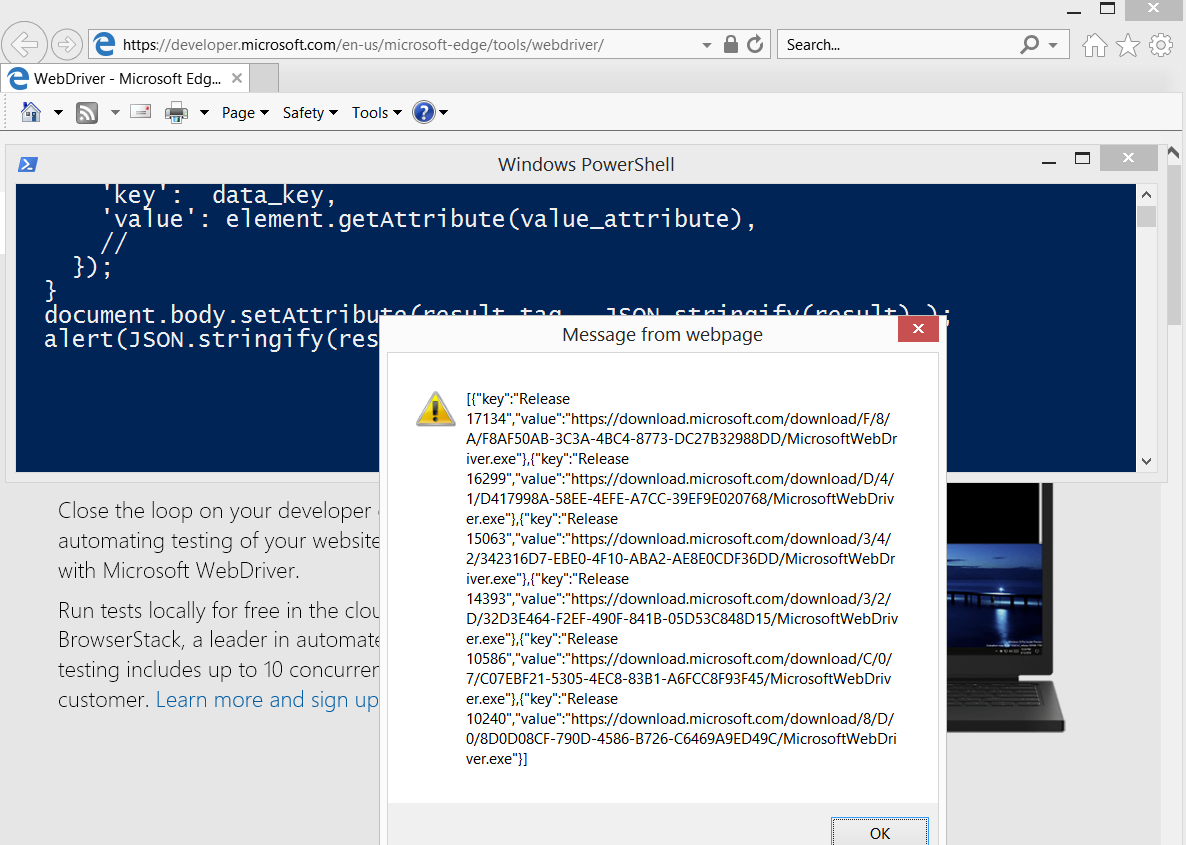
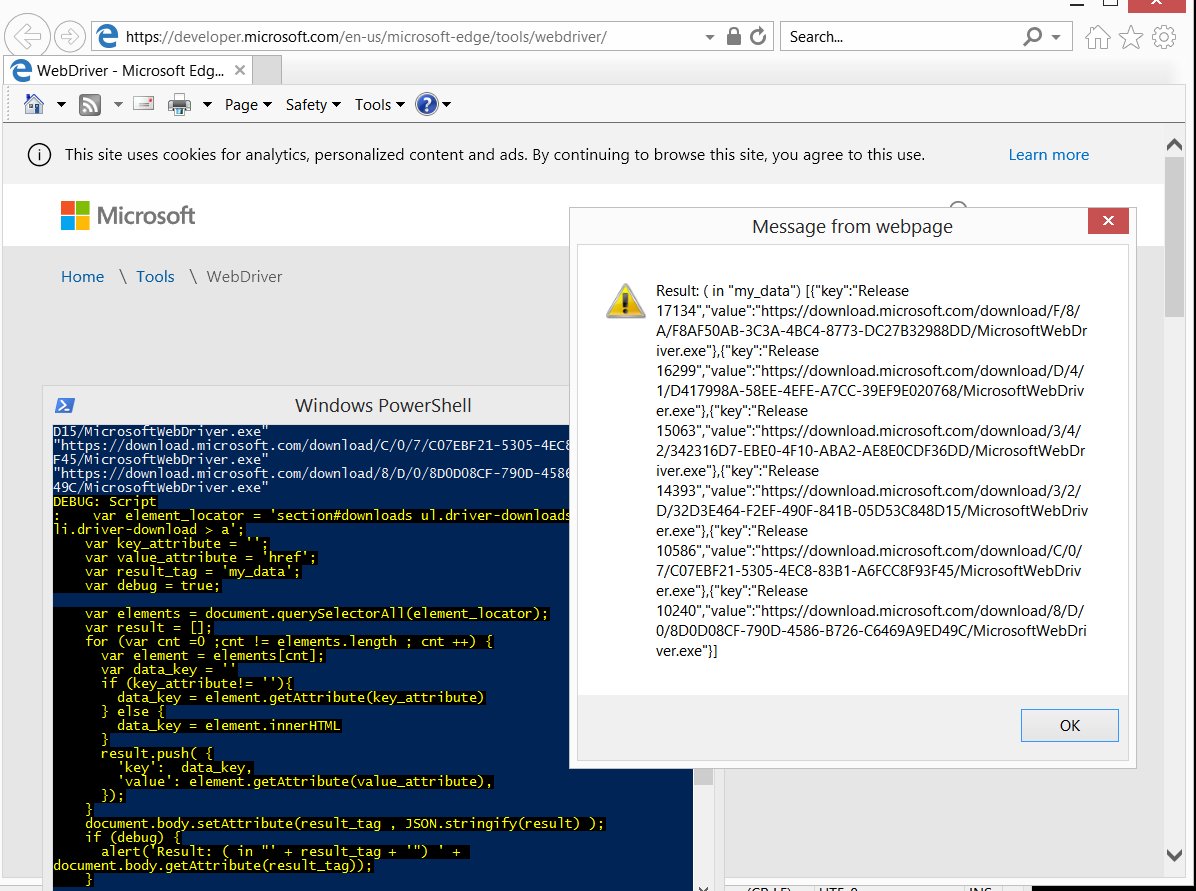
intermediat revision - changing method signatures to embed the result processing (optional)

diff --git a/README.md b/README.md
@@ -85,6 +85,49 @@ callable via
 ```powershell
 sendKeys -locator 'form[class = "form-inline"]' -text 'This is the text to input' -window_ref ([ref]$window)
 ```
+
+One can also make Powershell invoke some Javascipt code in the browser and receive e.g. the set of specific attributes of a set of elements
+using one of the helper functions:
+
+```powershell
+
+$ie = new-object -com 'internetexplorer.application'
+$target_url = 'https://developer.microsoft.com/en-us/microsoft-edge/tools/webdriver/'
+$ie.navigate2($target_url)
+$document = $ie.document
+$document_element = $document.documentElement
+$window = $document.parentWindow
+$result_tag = 'PSResult'
+$element_locator = 'section#downloads ul.driver-downloads li.driver-download > a'
+
+$result_array =  collect_data_array -window_ref ([ref]$window) -document_ref ([ref]$document) `
+                -element_locator $element_locator -element_attribute 'href' -result_tag $result_tag -debug
+
+$result_array | format-list
+
+```
+would produce array of results (href attributes of the links in the table in this example):
+```powershell
+"https://download.microsoft.com/download/F/8/A/F8AF50AB-3C3A-4BC4-8773-DC27B32988DD/MicrosoftWebDriver.exe"
+"https://download.microsoft.com/download/D/4/1/D417998A-58EE-4EFE-A7CC-39EF9E020768/MicrosoftWebDriver.exe"
+...
+``` 
+while
+```powershell
+$result_obj =  collect_data_hash -window_ref ([ref]$window) -document_ref ([ref]$document) `
+             -element_locator $element_locator -value_attribute 'href' -result_tag $result_tag -debug
+
+format-list -InputObject $result_obj
+
+```
+would produce a rowset of hashes:
+```powershell
+@{key=Release 17134; value=https://download.microsoft.com/download/F/8/A/F8AF50AB-3C3A-4BC4-8773-DC27B32988DD/MicrosoftWebDriver.exe}
+@{key=Release 16299; value=https://download.microsoft.com/download/D/4/1/D417998A-58EE-4EFE-A7CC-39EF9E020768/MicrosoftWebDriver.exe}
+...
+``` 
+which can be coverted into a hash with of links with text of the cell serving as the key.
+
 ### See Also:
 
   * https://stackoverflow.com/questions/3514945/running-a-javascript-function-in-an-instance-of-internet-explorer?utm_medium=organic&utm_source=google_rich_qa&utm_campaign=google_rich_qa
